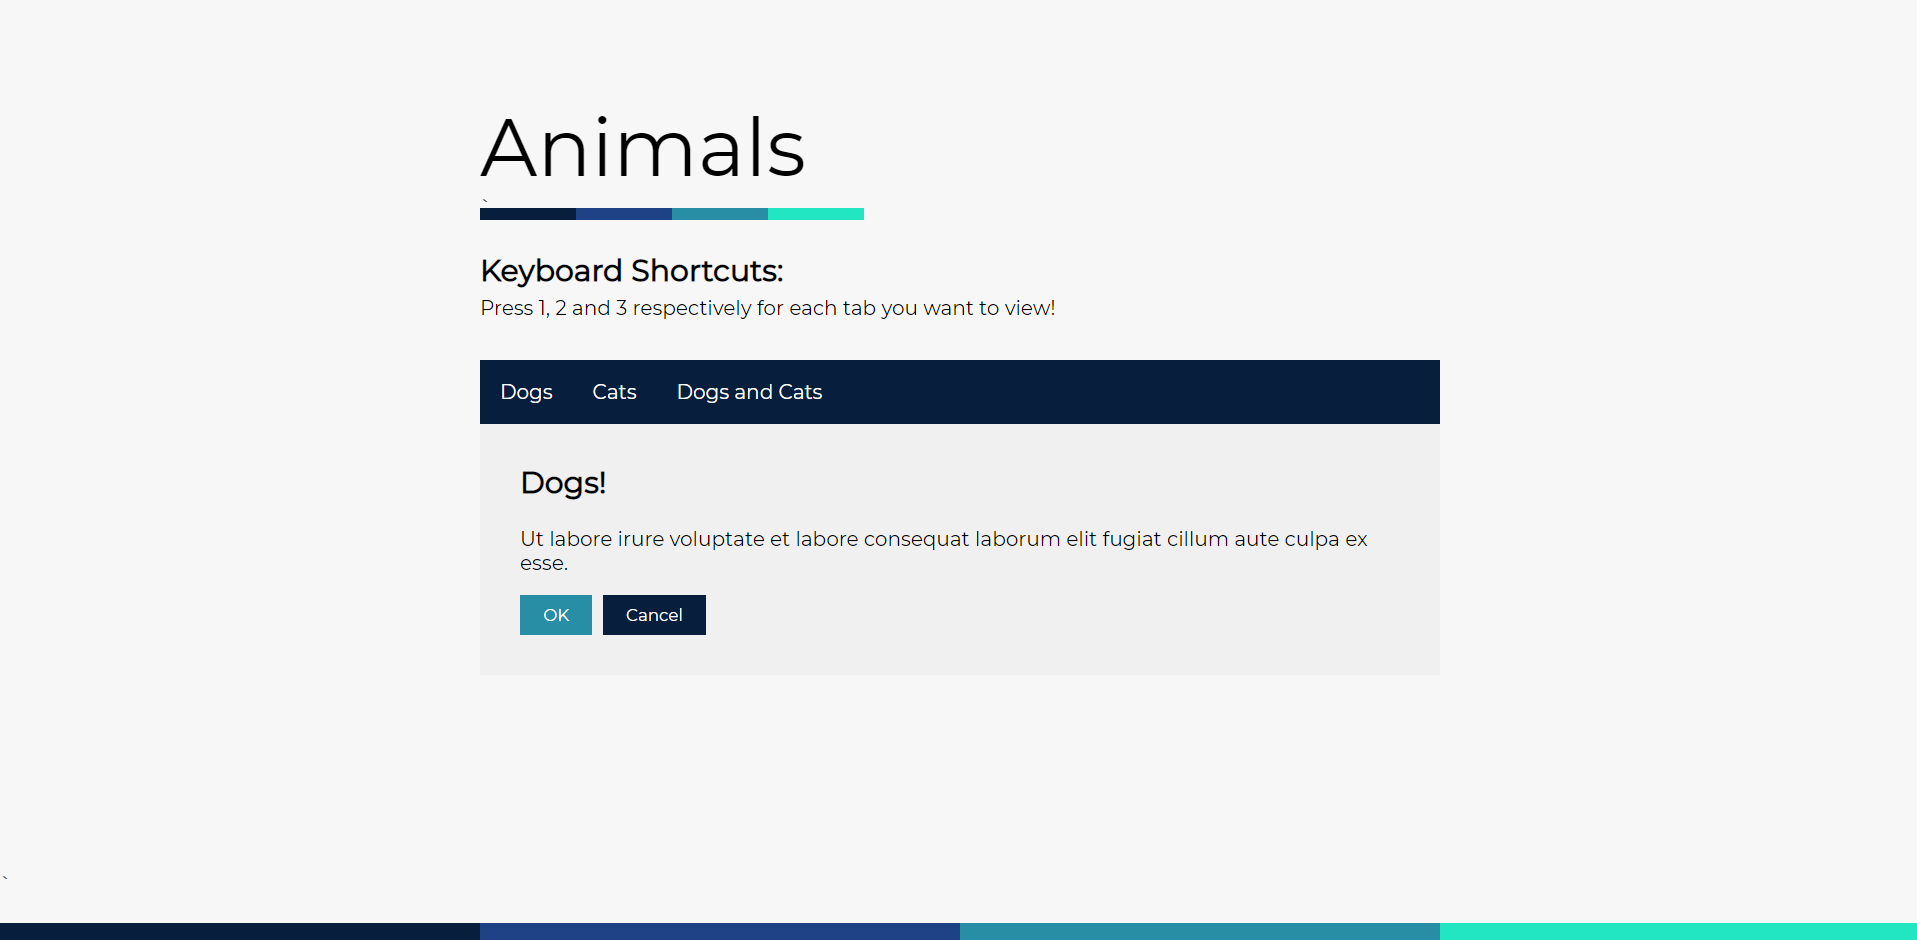
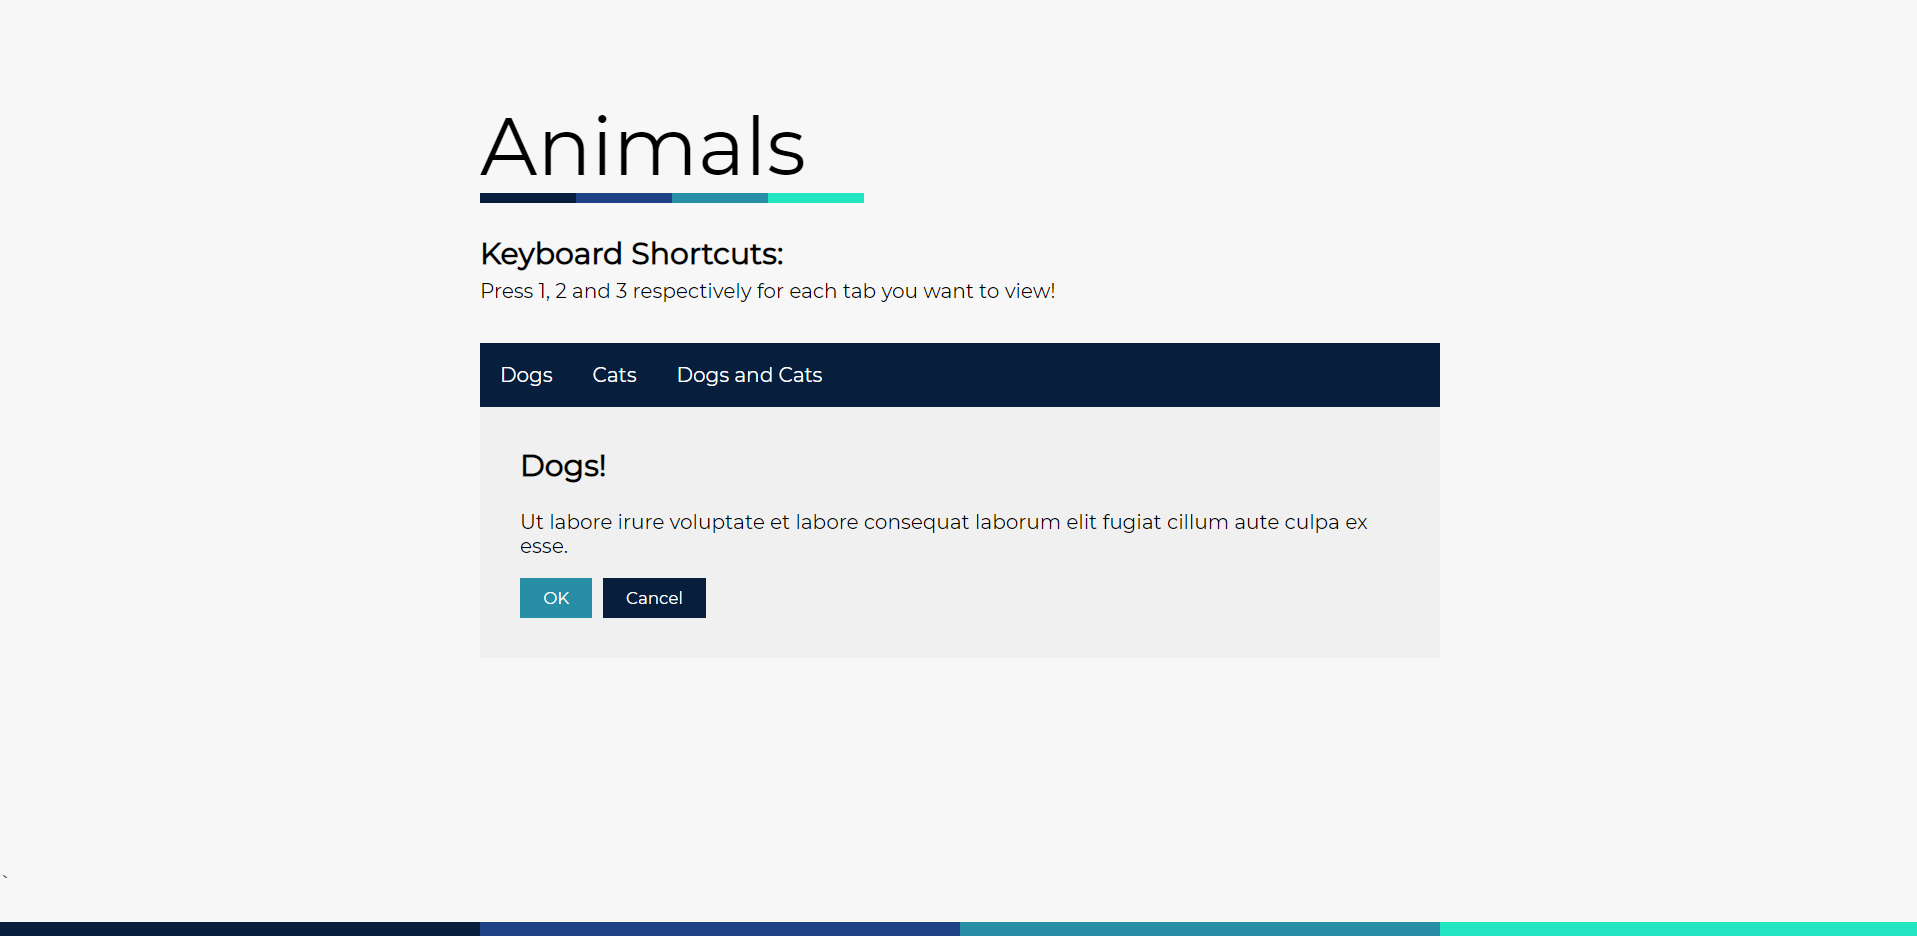
Minor margin adjustments

Changed region(s): [[0.2462, 0.1859, 0.7694, 0.6816], [0.0, 0.9605, 1.0, 0.9915]]

diff --git a/index.html b/index.html
@@ -16,7 +16,7 @@
                 <div class="underline-darkblue"></div>
                 <div class="underline-blue"></div>
                 <div class="underline-lightblue"></div>
-                <div class="underline-greenish"></div>`
+                <div class="underline-greenish"></div>
             </div>
 
             <br>

diff --git a/style.sass b/style.sass
@@ -94,6 +94,7 @@ ul.tab-bar
 
         .heading
             font-size: 4em
+            padding-bottom: 0.1em
 
         .underline-darkblue
             @include underline(#071e3d, 0)

diff --git a/style.css b/style.css
@@ -105,6 +105,7 @@ ul.tab-bar .tab:hover {
 
 .container .header-box .heading {
   font-size: 4em;
+  padding-bottom: 0.1em;
 }
 
 .container .header-box .underline-darkblue {
